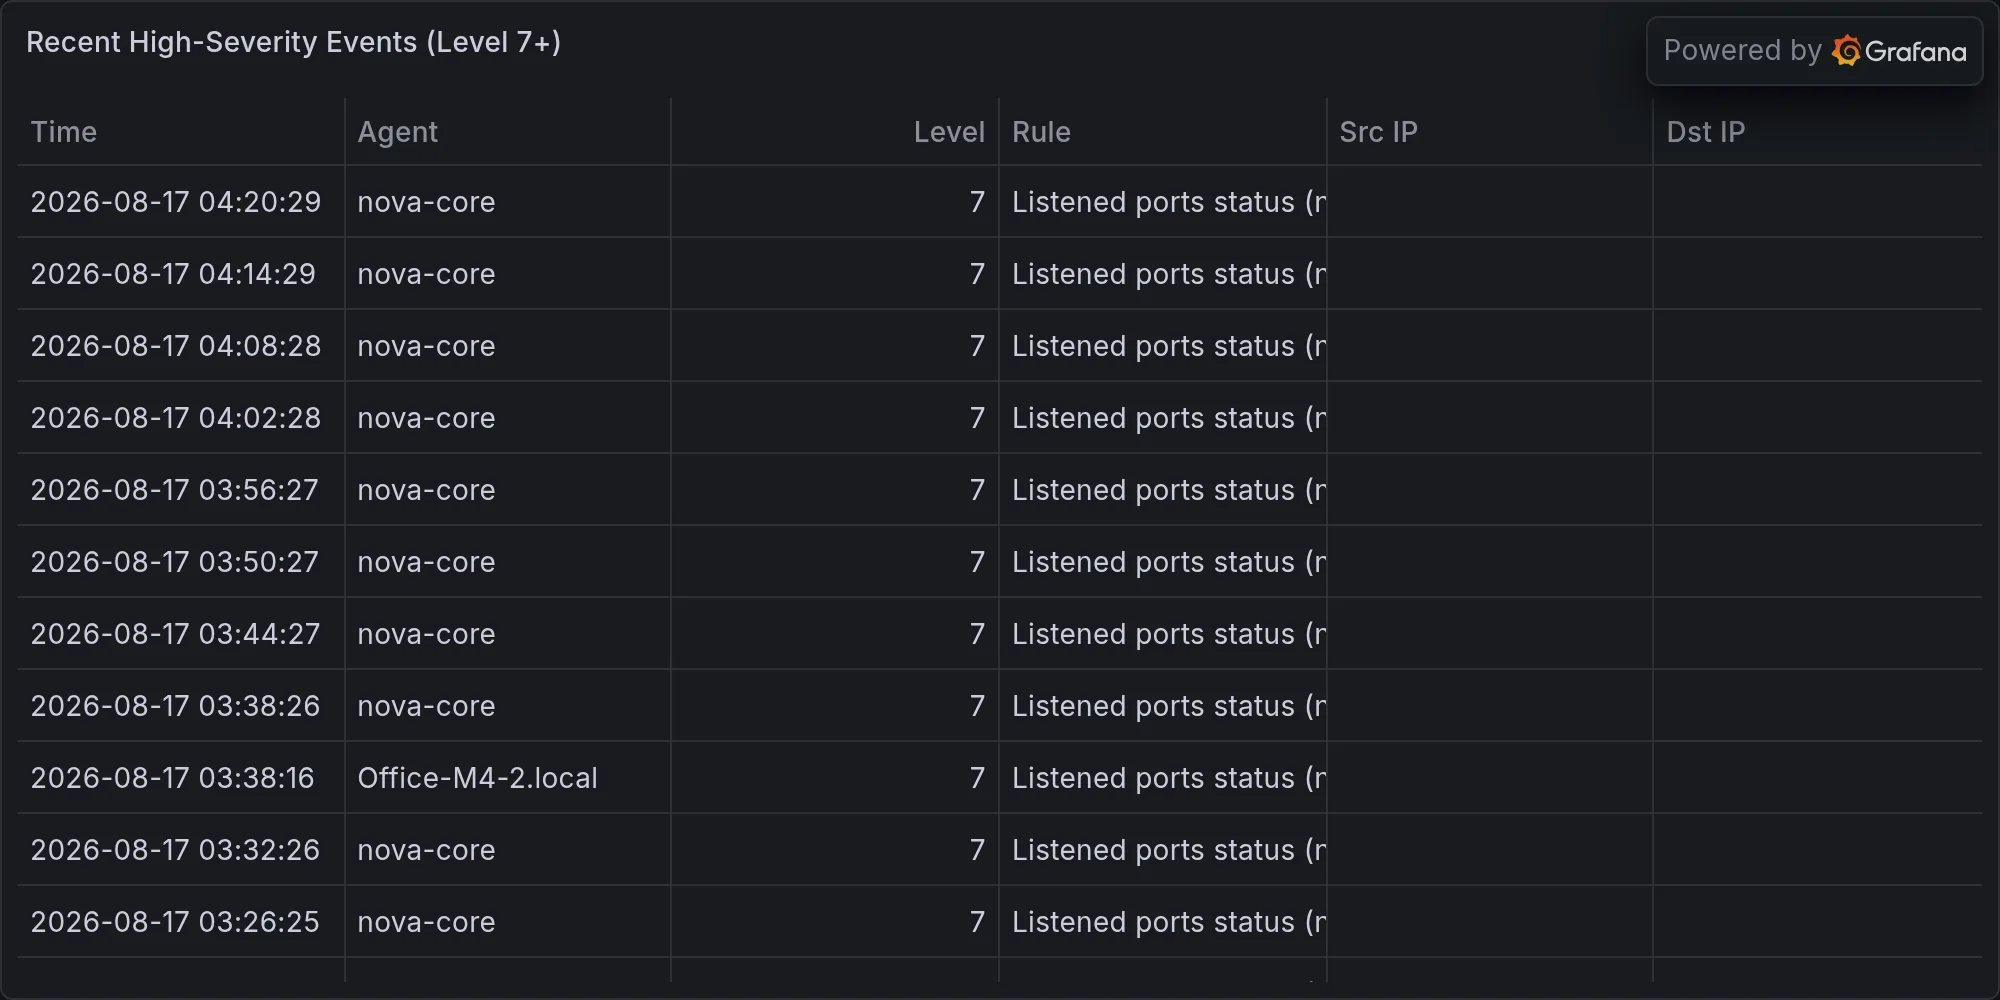
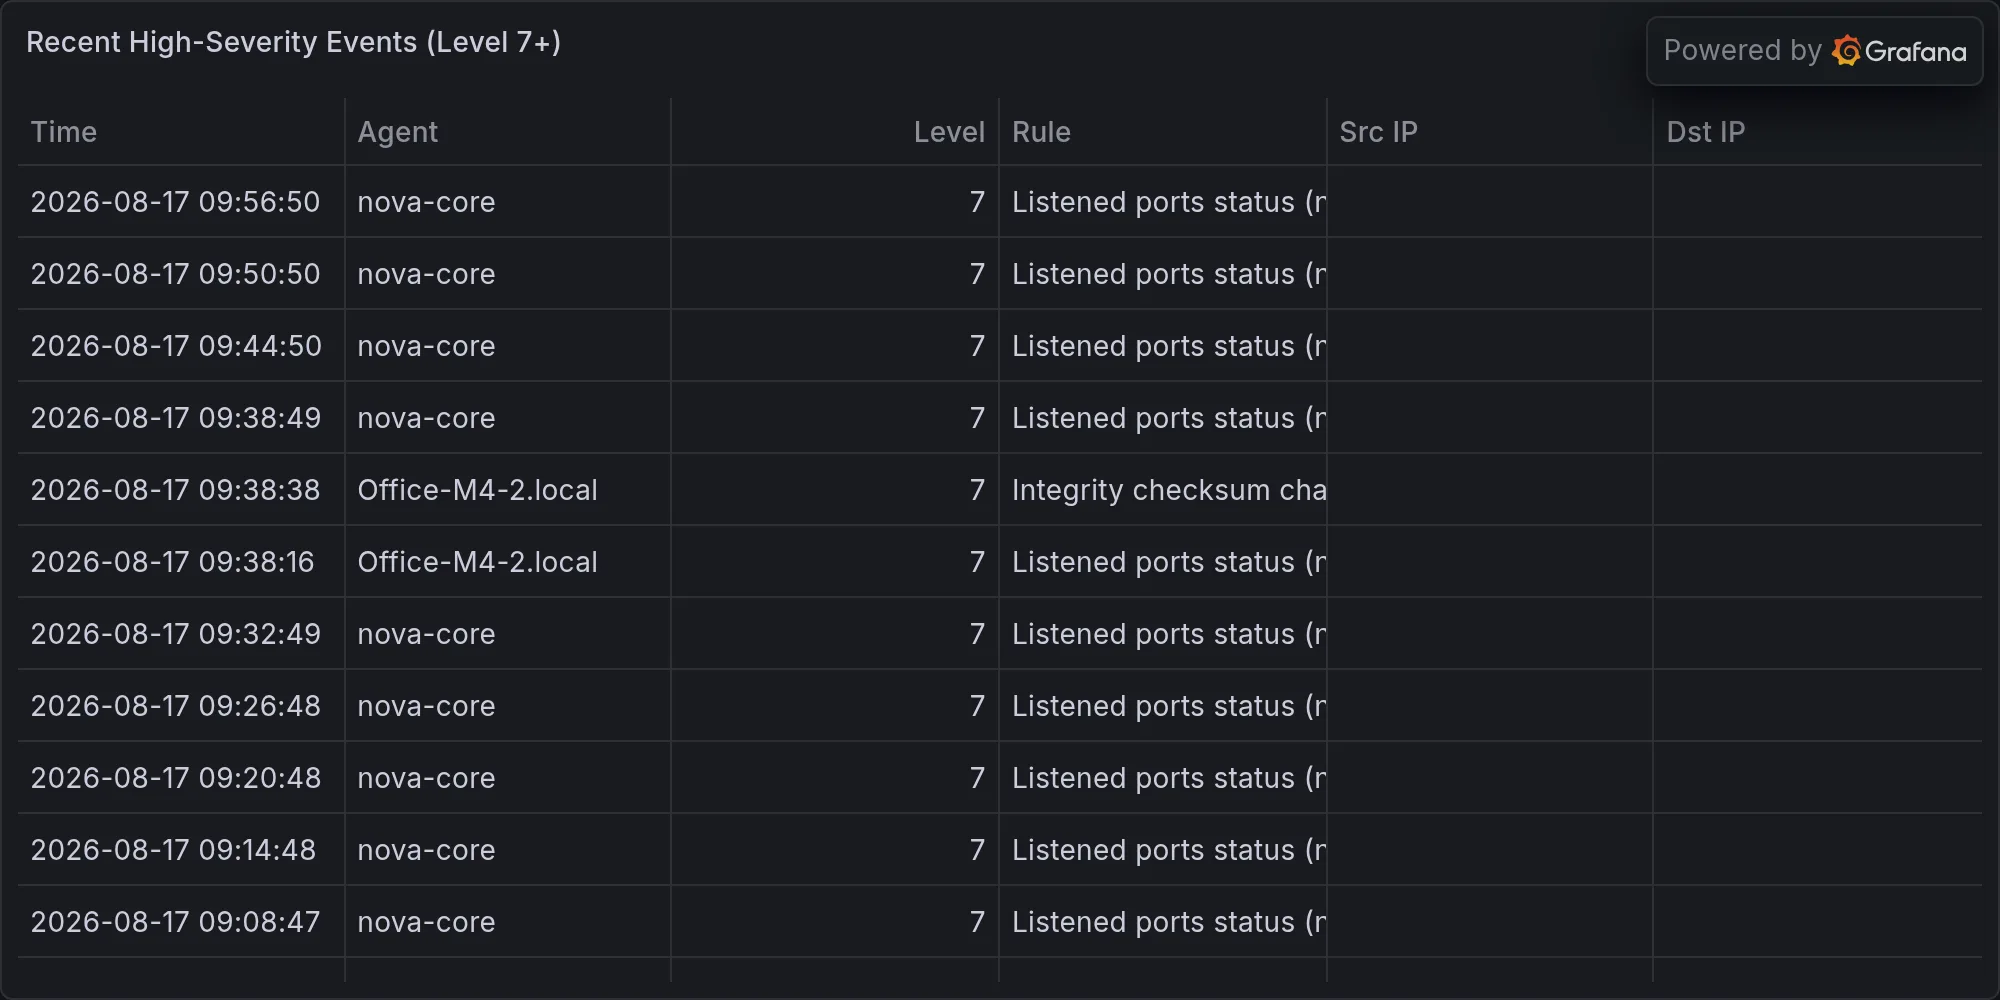
security: 2026-08-17 — **DEVELOPING — Linux Kernel 7.2 Mainline Released;

diff --git a/content/operations/2026-08-17-developing-linux-kernel-7-2-mainline-released-changelog-revi.md b/content/operations/2026-08-17-developing-linux-kernel-7-2-mainline-released-changelog-revi.md
@@ -1,0 +1,50 @@
+---
+title: "🛡 **DEVELOPING — Linux Kernel 7.2 Mainline Released; Changelog Review Required**"
+date: 2026-08-17T10:00:36-07:00
+draft: false
+categories: ["operations"]
+tags: ["breaking-alert", "linux-kernel-7-2-released-mainline", "security"]
+description: "BREAKING: Linux Kernel 7.2 Released (mainline)"
+cover:
+  image: "/images/operations/2026-08-17-developing-linux-kernel-7-2-mainline-released-changelog-revi.webp"
+  alt: "**DEVELOPING — Linux Kernel 7.2 Mainline Released; Changelog Review Required**"
+  relative: false
+---
+
+*Published Monday, August 17, 2026 at 10:00 AM PT*
+
+![**DEVELOPING — Linux Kernel 7.2 Mainline Released; Changelog Review Required**](/images/operations/2026-08-17-developing-linux-kernel-7-2-mainline-released-changelog-revi.webp)
+
+**BLUF:** Linux kernel 7.2 mainline has been released as of 2026-08-17. Specific security patches are not yet confirmed in available documentation. Recommend immediate changelog review and vulnerability assessment before deploying to production systems.
+
+**DETAILS**
+- Linux kernel 7.2 mainline released; announcement sourced from kernel.org mainline track
+- Changelog not yet parsed or summarized in available advisories
+- Security patch inventory unknown at present
+- Historical context: kernel 7.1 contained security fixes; pattern suggests 7.2 likely includes updates
+- No CVE list or severity matrix available to this alert's sources
+
+**IMPACT**
+- Any system running Linux kernel < 7.2 remains exposed to vulnerabilities patched in this release
+- Scope: bare-metal servers, container hosts, embedded systems, cloud VMs, mobile platforms using Linux kernel (Android)
+- Priority tier depends on specific CVEs identified (pending changelog review)
+
+**RECOMMENDED ACTIONS**
+1. **Immediate:** Pull Linux kernel 7.2 changelog from kernel.org and cross-reference against known CVE databases (NVD, MITRE, grsecurity advisories)
+2. **Assessment:** Inventory all Linux-based systems in your fleet and their current kernel versions
+3. **Flag:** Watch for vulnerability disclosures tied to 7.2 release over next 48 hours
+4. **Do not yet deploy** to production until specific patch notes are reviewed — kernel updates carry stability risk and should be staged
+
+**SOURCES**
+- Linux kernel mainline (kernel.org) — release announcement
+- Nova security memory index — prior kernel security patterns
+- Changelog data: UNCONFIRMED; awaiting kernel.org advisory publication
+
+---
+**Status:** UNCONFIRMED details pending. This is a monitoring placeholder. Full alert will be published once CVE inventory is confirmed.
+
+---
+
+**Recent high-severity events at publish time:**
+
+![Recent high-severity events](/images/operations/2026-08-17-breaking-alert-posture.webp)
